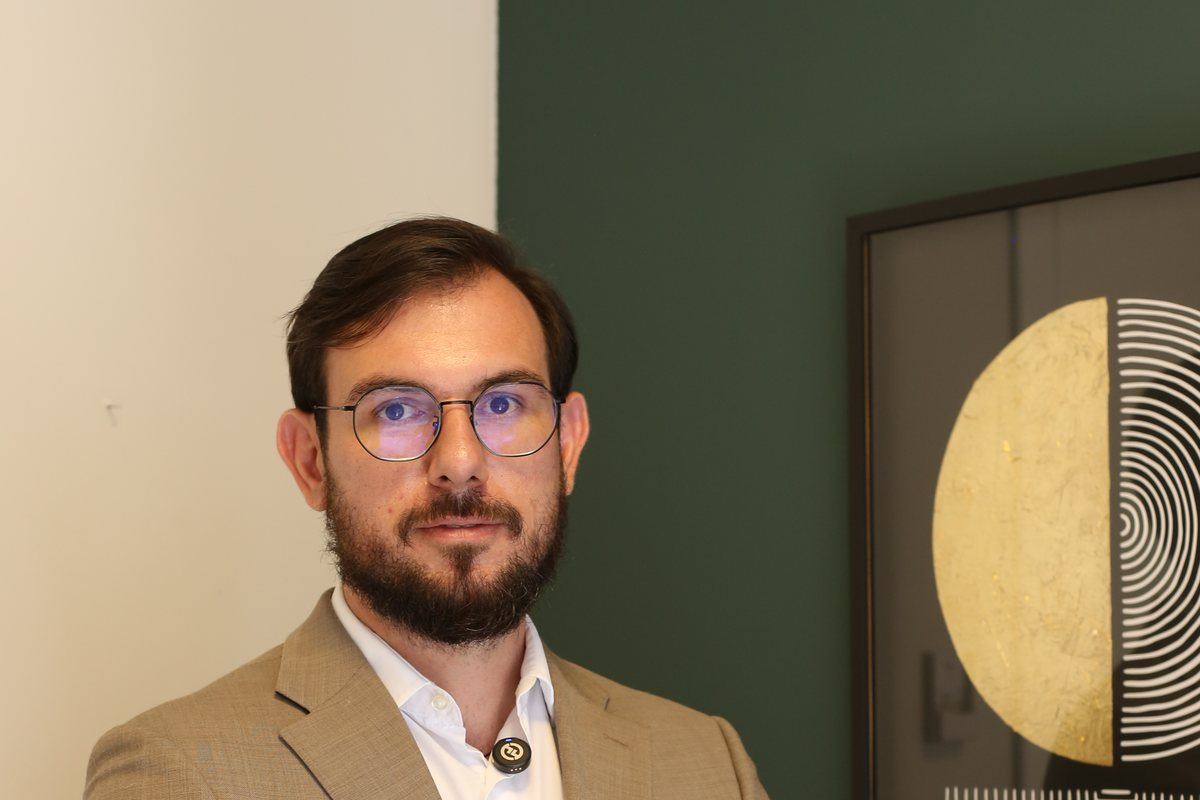
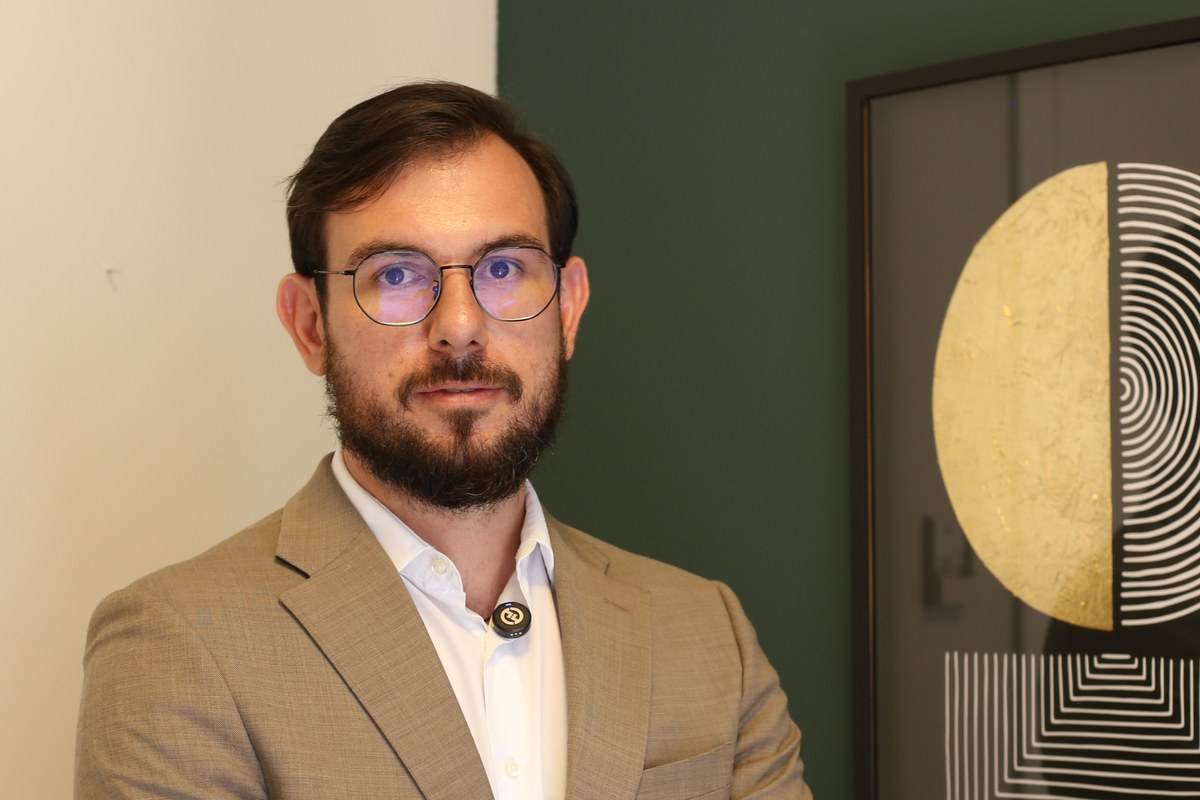
Capas ancoradas no rosto e respiro no fim do post
Duas correcoes, cada uma com a medicao que a motivou.

1. ROSTO CORTADO NA LISTAGEM. Nao era CSS: a caixa e o arquivo tem a mesma
   proporcao, corte medido em 0%. Vinha de antes. Cinco das dez capas nascem de
   originais 3648x5472, em retrato, e virar 1200x800 descarta 55,6% da altura.
   Com ancora fixa, seja no topo ou no centro, e sorte se a cabeca sobrevive: em
   IMG_0213, IMG_0223 e IMG_7685 nao sobreviveu.

   O recorte passa a ser ancorado no rosto, detectado por Haar cascade. O rosto
   fica a 38% da altura da faixa, e nao a 50%, porque centralizar rosto em foto
   de meio corpo corta o tronco e deixa vazio em cima; 38% e o enquadramento de
   retrato, com o olhar no terco superior. Fica uma folga minima de 45% da
   altura do rosto acima da cabeca.

   As cinco foram conferidas numa folha de contato antes e depois. Numero de
   deteccao nao prova enquadramento bom; so a imagem prova.

2. FIM DO POST COLADO NO RODAPE. Medido a 1440px em custo-hora-clinica: a coluna
   da esquerda terminava em 6840, a da direita em 6888, e o rodape comecava em
   6888. Respiro zero. Como o post tem fundo claro e o rodape e preto, a pagina
   saltava de creme para preto no pixel seguinte ao ultimo botao, e o degrau de
   48px entre as colunas caia exatamente sobre essa linha.

   Um padding-bottom no grid resolve os dois: separa do rodape e absorve o
   degrau. Passou de 0 para 104px de respiro.

Verificado: CSS integro, corte 0% nas capas, respiro medido na pagina.

diff --git a/site/blog/agenda-cheia-prejuizo-clinica/index.html b/site/blog/agenda-cheia-prejuizo-clinica/index.html
@@ -146,7 +146,11 @@ article{padding-bottom:clamp(48px,6vh,72px)}
 /* ---- post em duas colunas: texto a esquerda, contexto a direita --------
    A coluna da direita responde as tres perguntas que o leitor faz depois do
    texto: quem escreveu, o que mais tem para ler e como falar com a gente. */
-.post{display:grid;gap:clamp(30px,4vh,48px)}
+/* O padding-bottom nao e decoracao: sem ele o ultimo botao do post encosta
+   no rodape, e a pagina salta de creme para preto no pixel seguinte. Ele
+   tambem absorve a diferenca de altura entre as duas colunas, que a 1440px
+   media 48px e formava um degrau exatamente sobre essa linha. */
+.post{display:grid;gap:clamp(30px,4vh,48px);padding-bottom:clamp(56px,8vh,104px)}
 @media(min-width:1040px){
   .post{grid-template-columns:minmax(0,1fr) 336px;gap:clamp(38px,4vw,64px);align-items:start}
   .lateral{position:sticky;top:96px}

diff --git a/site/blog/clinica-dependente-do-dono/index.html b/site/blog/clinica-dependente-do-dono/index.html
@@ -146,7 +146,11 @@ article{padding-bottom:clamp(48px,6vh,72px)}
 /* ---- post em duas colunas: texto a esquerda, contexto a direita --------
    A coluna da direita responde as tres perguntas que o leitor faz depois do
    texto: quem escreveu, o que mais tem para ler e como falar com a gente. */
-.post{display:grid;gap:clamp(30px,4vh,48px)}
+/* O padding-bottom nao e decoracao: sem ele o ultimo botao do post encosta
+   no rodape, e a pagina salta de creme para preto no pixel seguinte. Ele
+   tambem absorve a diferenca de altura entre as duas colunas, que a 1440px
+   media 48px e formava um degrau exatamente sobre essa linha. */
+.post{display:grid;gap:clamp(30px,4vh,48px);padding-bottom:clamp(56px,8vh,104px)}
 @media(min-width:1040px){
   .post{grid-template-columns:minmax(0,1fr) 336px;gap:clamp(38px,4vw,64px);align-items:start}
   .lateral{position:sticky;top:96px}

diff --git a/site/blog/custo-hora-clinica/index.html b/site/blog/custo-hora-clinica/index.html
@@ -146,7 +146,11 @@ article{padding-bottom:clamp(48px,6vh,72px)}
 /* ---- post em duas colunas: texto a esquerda, contexto a direita --------
    A coluna da direita responde as tres perguntas que o leitor faz depois do
    texto: quem escreveu, o que mais tem para ler e como falar com a gente. */
-.post{display:grid;gap:clamp(30px,4vh,48px)}
+/* O padding-bottom nao e decoracao: sem ele o ultimo botao do post encosta
+   no rodape, e a pagina salta de creme para preto no pixel seguinte. Ele
+   tambem absorve a diferenca de altura entre as duas colunas, que a 1440px
+   media 48px e formava um degrau exatamente sobre essa linha. */
+.post{display:grid;gap:clamp(30px,4vh,48px);padding-bottom:clamp(56px,8vh,104px)}
 @media(min-width:1040px){
   .post{grid-template-columns:minmax(0,1fr) 336px;gap:clamp(38px,4vw,64px);align-items:start}
   .lateral{position:sticky;top:96px}

diff --git a/site/blog/custo-no-show-clinica/index.html b/site/blog/custo-no-show-clinica/index.html
@@ -146,7 +146,11 @@ article{padding-bottom:clamp(48px,6vh,72px)}
 /* ---- post em duas colunas: texto a esquerda, contexto a direita --------
    A coluna da direita responde as tres perguntas que o leitor faz depois do
    texto: quem escreveu, o que mais tem para ler e como falar com a gente. */
-.post{display:grid;gap:clamp(30px,4vh,48px)}
+/* O padding-bottom nao e decoracao: sem ele o ultimo botao do post encosta
+   no rodape, e a pagina salta de creme para preto no pixel seguinte. Ele
+   tambem absorve a diferenca de altura entre as duas colunas, que a 1440px
+   media 48px e formava um degrau exatamente sobre essa linha. */
+.post{display:grid;gap:clamp(30px,4vh,48px);padding-bottom:clamp(56px,8vh,104px)}
 @media(min-width:1040px){
   .post{grid-template-columns:minmax(0,1fr) 336px;gap:clamp(38px,4vw,64px);align-items:start}
   .lateral{position:sticky;top:96px}

diff --git a/site/blog/diagnostico-gestao-clinica/index.html b/site/blog/diagnostico-gestao-clinica/index.html
@@ -146,7 +146,11 @@ article{padding-bottom:clamp(48px,6vh,72px)}
 /* ---- post em duas colunas: texto a esquerda, contexto a direita --------
    A coluna da direita responde as tres perguntas que o leitor faz depois do
    texto: quem escreveu, o que mais tem para ler e como falar com a gente. */
-.post{display:grid;gap:clamp(30px,4vh,48px)}
+/* O padding-bottom nao e decoracao: sem ele o ultimo botao do post encosta
+   no rodape, e a pagina salta de creme para preto no pixel seguinte. Ele
+   tambem absorve a diferenca de altura entre as duas colunas, que a 1440px
+   media 48px e formava um degrau exatamente sobre essa linha. */
+.post{display:grid;gap:clamp(30px,4vh,48px);padding-bottom:clamp(56px,8vh,104px)}
 @media(min-width:1040px){
   .post{grid-template-columns:minmax(0,1fr) 336px;gap:clamp(38px,4vw,64px);align-items:start}
   .lateral{position:sticky;top:96px}

diff --git a/site/blog/index.html b/site/blog/index.html
@@ -146,7 +146,11 @@ article{padding-bottom:clamp(48px,6vh,72px)}
 /* ---- post em duas colunas: texto a esquerda, contexto a direita --------
    A coluna da direita responde as tres perguntas que o leitor faz depois do
    texto: quem escreveu, o que mais tem para ler e como falar com a gente. */
-.post{display:grid;gap:clamp(30px,4vh,48px)}
+/* O padding-bottom nao e decoracao: sem ele o ultimo botao do post encosta
+   no rodape, e a pagina salta de creme para preto no pixel seguinte. Ele
+   tambem absorve a diferenca de altura entre as duas colunas, que a 1440px
+   media 48px e formava um degrau exatamente sobre essa linha. */
+.post{display:grid;gap:clamp(30px,4vh,48px);padding-bottom:clamp(56px,8vh,104px)}
 @media(min-width:1040px){
   .post{grid-template-columns:minmax(0,1fr) 336px;gap:clamp(38px,4vw,64px);align-items:start}
   .lateral{position:sticky;top:96px}

diff --git a/site/blog/indicadores-clinica-faixa-referencia/index.html b/site/blog/indicadores-clinica-faixa-referencia/index.html
@@ -146,7 +146,11 @@ article{padding-bottom:clamp(48px,6vh,72px)}
 /* ---- post em duas colunas: texto a esquerda, contexto a direita --------
    A coluna da direita responde as tres perguntas que o leitor faz depois do
    texto: quem escreveu, o que mais tem para ler e como falar com a gente. */
-.post{display:grid;gap:clamp(30px,4vh,48px)}
+/* O padding-bottom nao e decoracao: sem ele o ultimo botao do post encosta
+   no rodape, e a pagina salta de creme para preto no pixel seguinte. Ele
+   tambem absorve a diferenca de altura entre as duas colunas, que a 1440px
+   media 48px e formava um degrau exatamente sobre essa linha. */
+.post{display:grid;gap:clamp(30px,4vh,48px);padding-bottom:clamp(56px,8vh,104px)}
 @media(min-width:1040px){
   .post{grid-template-columns:minmax(0,1fr) 336px;gap:clamp(38px,4vw,64px);align-items:start}
   .lateral{position:sticky;top:96px}

diff --git a/site/blog/margem-lucro-clinica-medica/index.html b/site/blog/margem-lucro-clinica-medica/index.html
@@ -146,7 +146,11 @@ article{padding-bottom:clamp(48px,6vh,72px)}
 /* ---- post em duas colunas: texto a esquerda, contexto a direita --------
    A coluna da direita responde as tres perguntas que o leitor faz depois do
    texto: quem escreveu, o que mais tem para ler e como falar com a gente. */
-.post{display:grid;gap:clamp(30px,4vh,48px)}
+/* O padding-bottom nao e decoracao: sem ele o ultimo botao do post encosta
+   no rodape, e a pagina salta de creme para preto no pixel seguinte. Ele
+   tambem absorve a diferenca de altura entre as duas colunas, que a 1440px
+   media 48px e formava um degrau exatamente sobre essa linha. */
+.post{display:grid;gap:clamp(30px,4vh,48px);padding-bottom:clamp(56px,8vh,104px)}
 @media(min-width:1040px){
   .post{grid-template-columns:minmax(0,1fr) 336px;gap:clamp(38px,4vw,64px);align-items:start}
   .lateral{position:sticky;top:96px}

diff --git a/site/blog/maturidade-empresarial-medica-5-estagios/index.html b/site/blog/maturidade-empresarial-medica-5-estagios/index.html
@@ -146,7 +146,11 @@ article{padding-bottom:clamp(48px,6vh,72px)}
 /* ---- post em duas colunas: texto a esquerda, contexto a direita --------
    A coluna da direita responde as tres perguntas que o leitor faz depois do
    texto: quem escreveu, o que mais tem para ler e como falar com a gente. */
-.post{display:grid;gap:clamp(30px,4vh,48px)}
+/* O padding-bottom nao e decoracao: sem ele o ultimo botao do post encosta
+   no rodape, e a pagina salta de creme para preto no pixel seguinte. Ele
+   tambem absorve a diferenca de altura entre as duas colunas, que a 1440px
+   media 48px e formava um degrau exatamente sobre essa linha. */
+.post{display:grid;gap:clamp(30px,4vh,48px);padding-bottom:clamp(56px,8vh,104px)}
 @media(min-width:1040px){
   .post{grid-template-columns:minmax(0,1fr) 336px;gap:clamp(38px,4vw,64px);align-items:start}
   .lateral{position:sticky;top:96px}

diff --git a/site/blog/parcelamento-clinica-margem/index.html b/site/blog/parcelamento-clinica-margem/index.html
@@ -146,7 +146,11 @@ article{padding-bottom:clamp(48px,6vh,72px)}
 /* ---- post em duas colunas: texto a esquerda, contexto a direita --------
    A coluna da direita responde as tres perguntas que o leitor faz depois do
    texto: quem escreveu, o que mais tem para ler e como falar com a gente. */
-.post{display:grid;gap:clamp(30px,4vh,48px)}
+/* O padding-bottom nao e decoracao: sem ele o ultimo botao do post encosta
+   no rodape, e a pagina salta de creme para preto no pixel seguinte. Ele
+   tambem absorve a diferenca de altura entre as duas colunas, que a 1440px
+   media 48px e formava um degrau exatamente sobre essa linha. */
+.post{display:grid;gap:clamp(30px,4vh,48px);padding-bottom:clamp(56px,8vh,104px)}
 @media(min-width:1040px){
   .post{grid-template-columns:minmax(0,1fr) 336px;gap:clamp(38px,4vw,64px);align-items:start}
   .lateral{position:sticky;top:96px}

diff --git a/site/blog/valuation-clinica-saida-socio/index.html b/site/blog/valuation-clinica-saida-socio/index.html
@@ -146,7 +146,11 @@ article{padding-bottom:clamp(48px,6vh,72px)}
 /* ---- post em duas colunas: texto a esquerda, contexto a direita --------
    A coluna da direita responde as tres perguntas que o leitor faz depois do
    texto: quem escreveu, o que mais tem para ler e como falar com a gente. */
-.post{display:grid;gap:clamp(30px,4vh,48px)}
+/* O padding-bottom nao e decoracao: sem ele o ultimo botao do post encosta
+   no rodape, e a pagina salta de creme para preto no pixel seguinte. Ele
+   tambem absorve a diferenca de altura entre as duas colunas, que a 1440px
+   media 48px e formava um degrau exatamente sobre essa linha. */
+.post{display:grid;gap:clamp(30px,4vh,48px);padding-bottom:clamp(56px,8vh,104px)}
 @media(min-width:1040px){
   .post{grid-template-columns:minmax(0,1fr) 336px;gap:clamp(38px,4vw,64px);align-items:start}
   .lateral{position:sticky;top:96px}

diff --git a/scripts/gerar_blog.py b/scripts/gerar_blog.py
@@ -164,7 +164,11 @@ article{padding-bottom:clamp(48px,6vh,72px)}
 /* ---- post em duas colunas: texto a esquerda, contexto a direita --------
    A coluna da direita responde as tres perguntas que o leitor faz depois do
    texto: quem escreveu, o que mais tem para ler e como falar com a gente. */
-.post{display:grid;gap:clamp(30px,4vh,48px)}
+/* O padding-bottom nao e decoracao: sem ele o ultimo botao do post encosta
+   no rodape, e a pagina salta de creme para preto no pixel seguinte. Ele
+   tambem absorve a diferenca de altura entre as duas colunas, que a 1440px
+   media 48px e formava um degrau exatamente sobre essa linha. */
+.post{display:grid;gap:clamp(30px,4vh,48px);padding-bottom:clamp(56px,8vh,104px)}
 @media(min-width:1040px){
   .post{grid-template-columns:minmax(0,1fr) 336px;gap:clamp(38px,4vw,64px);align-items:start}
   .lateral{position:sticky;top:96px}
